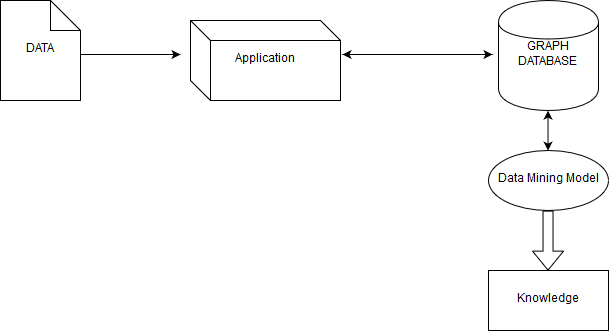
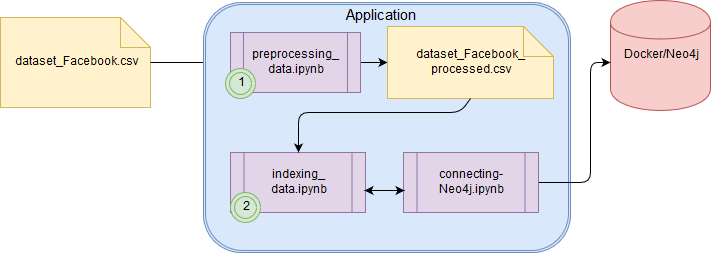
figure

diff --git a/deliver/README.md b/deliver/README.md
@@ -1,0 +1,6 @@
+# Deliver
+
+In this repository you will find the [Paper](paper.ipynb) the corresponding ``.tex``, the ``references.bib`` and the codes used in the experiment.
+
+## Workflow 
+The workflow, with the inputs and outputs of this research, is as follows:
